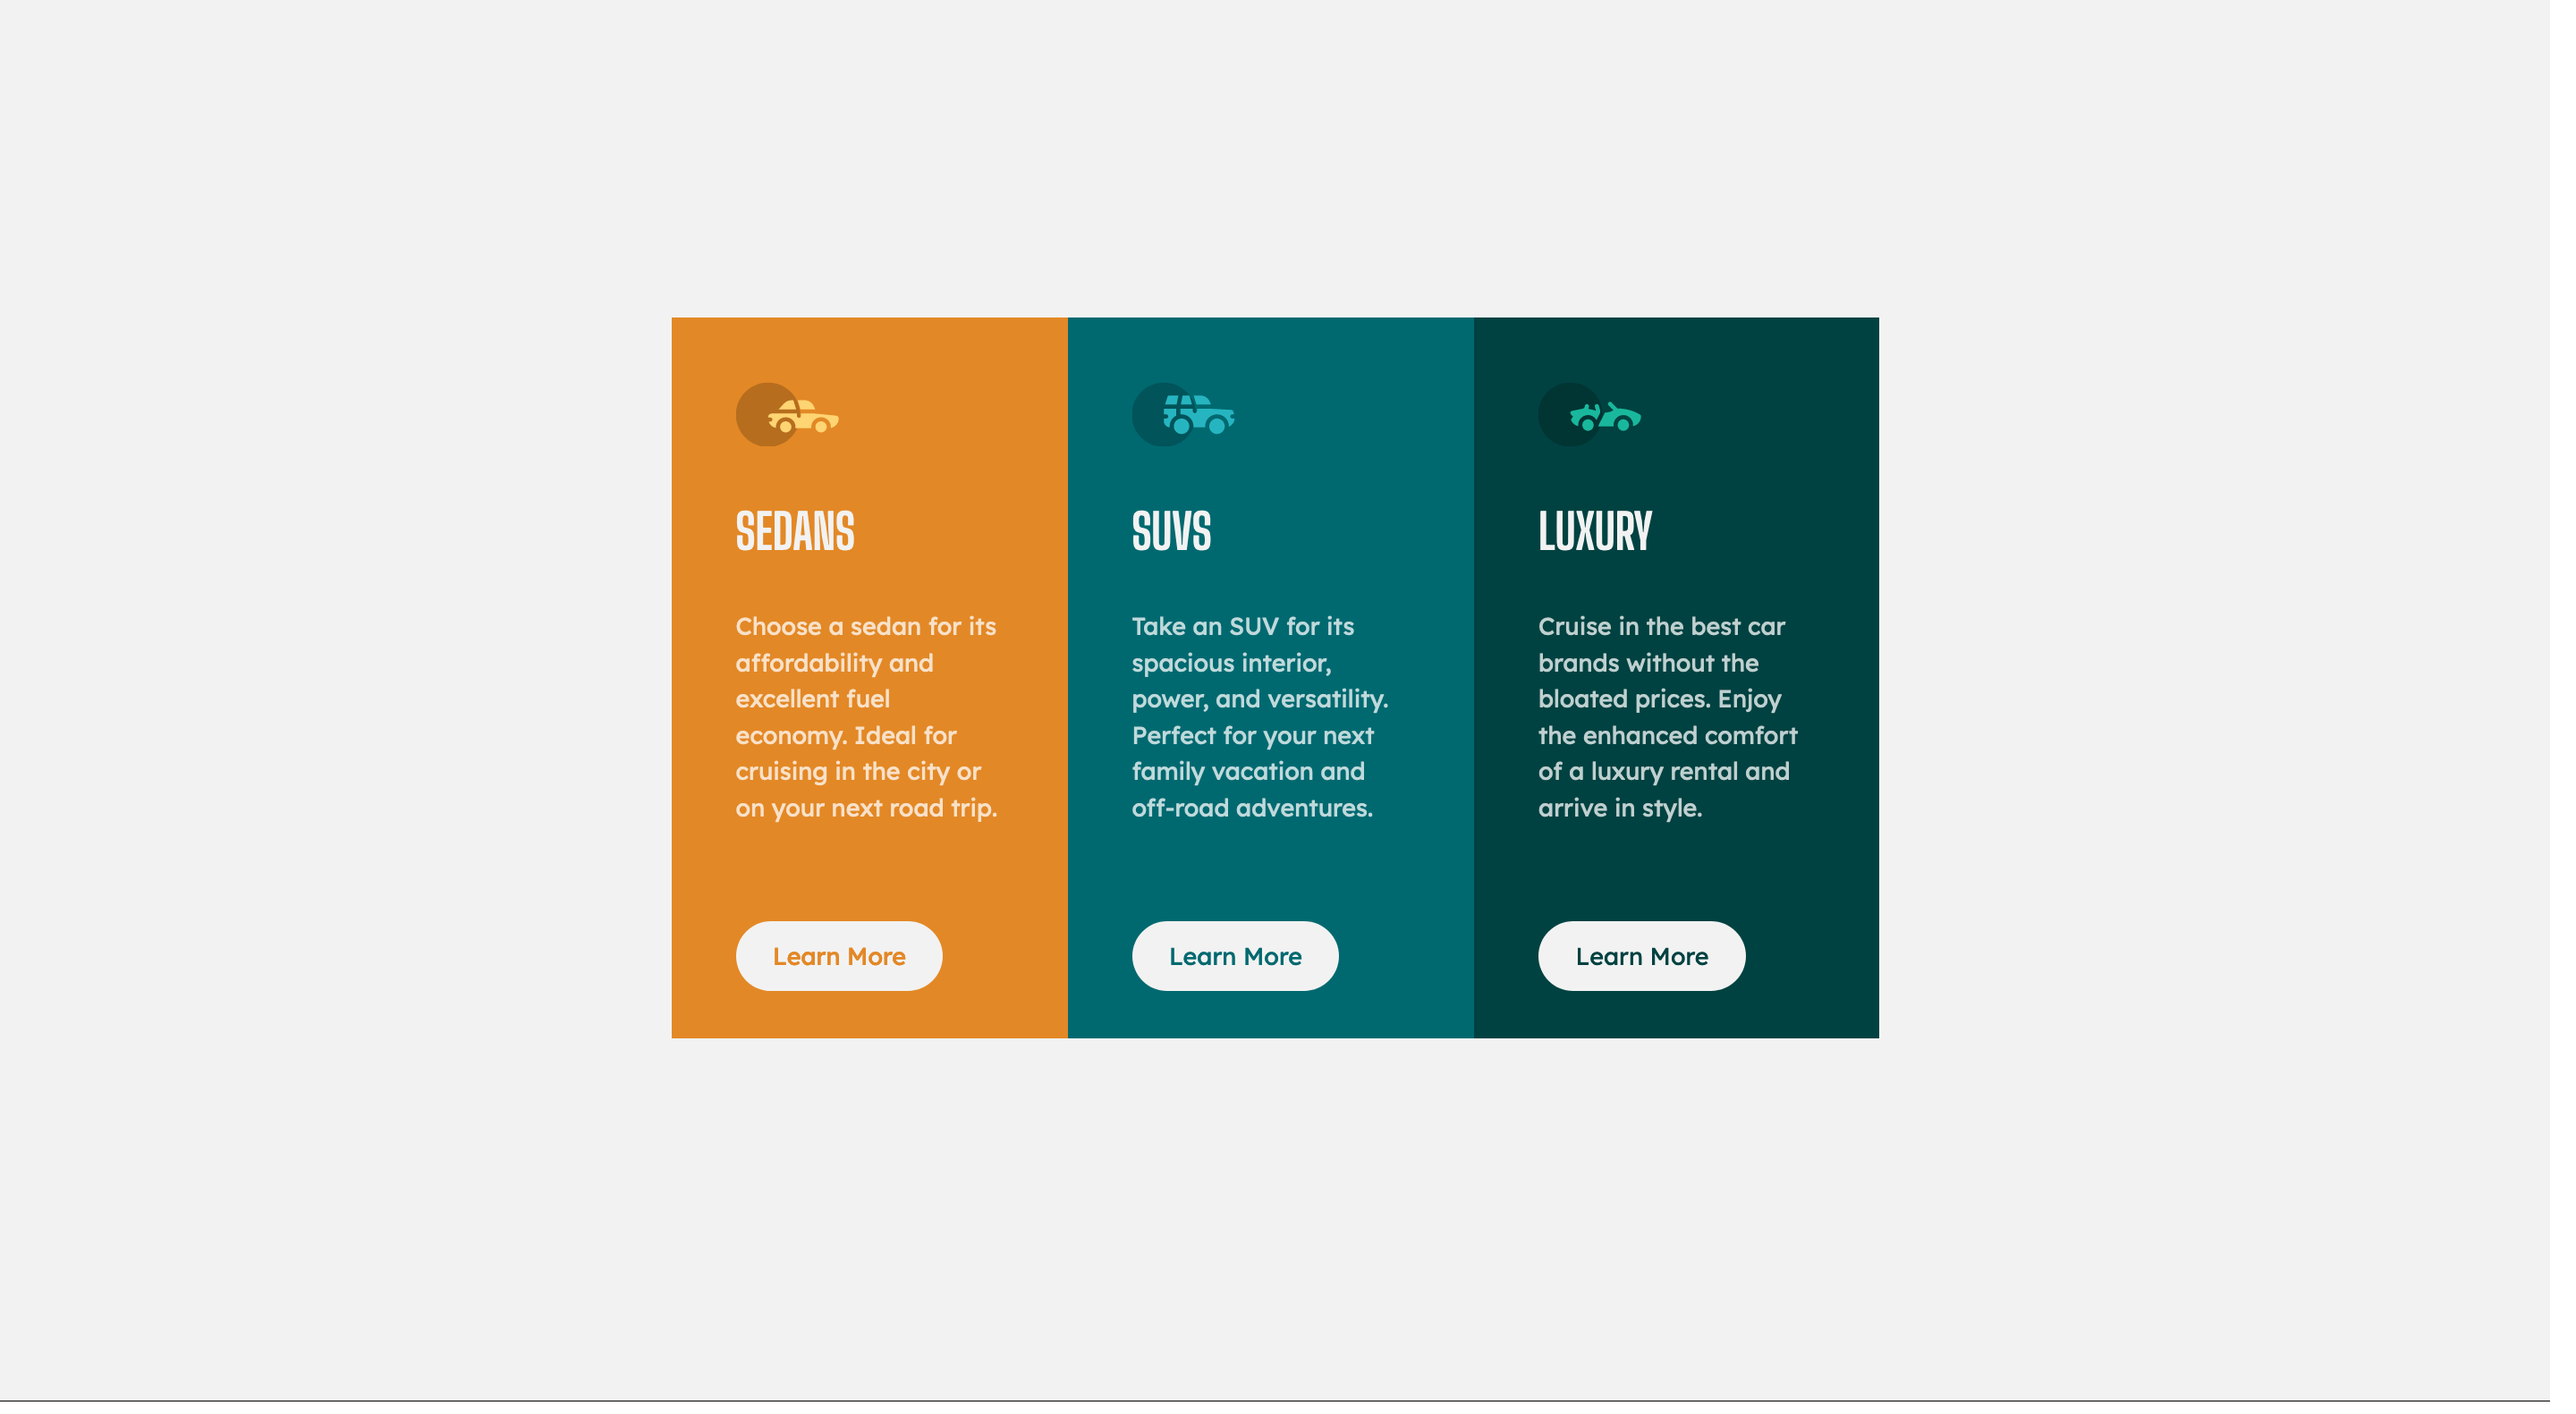
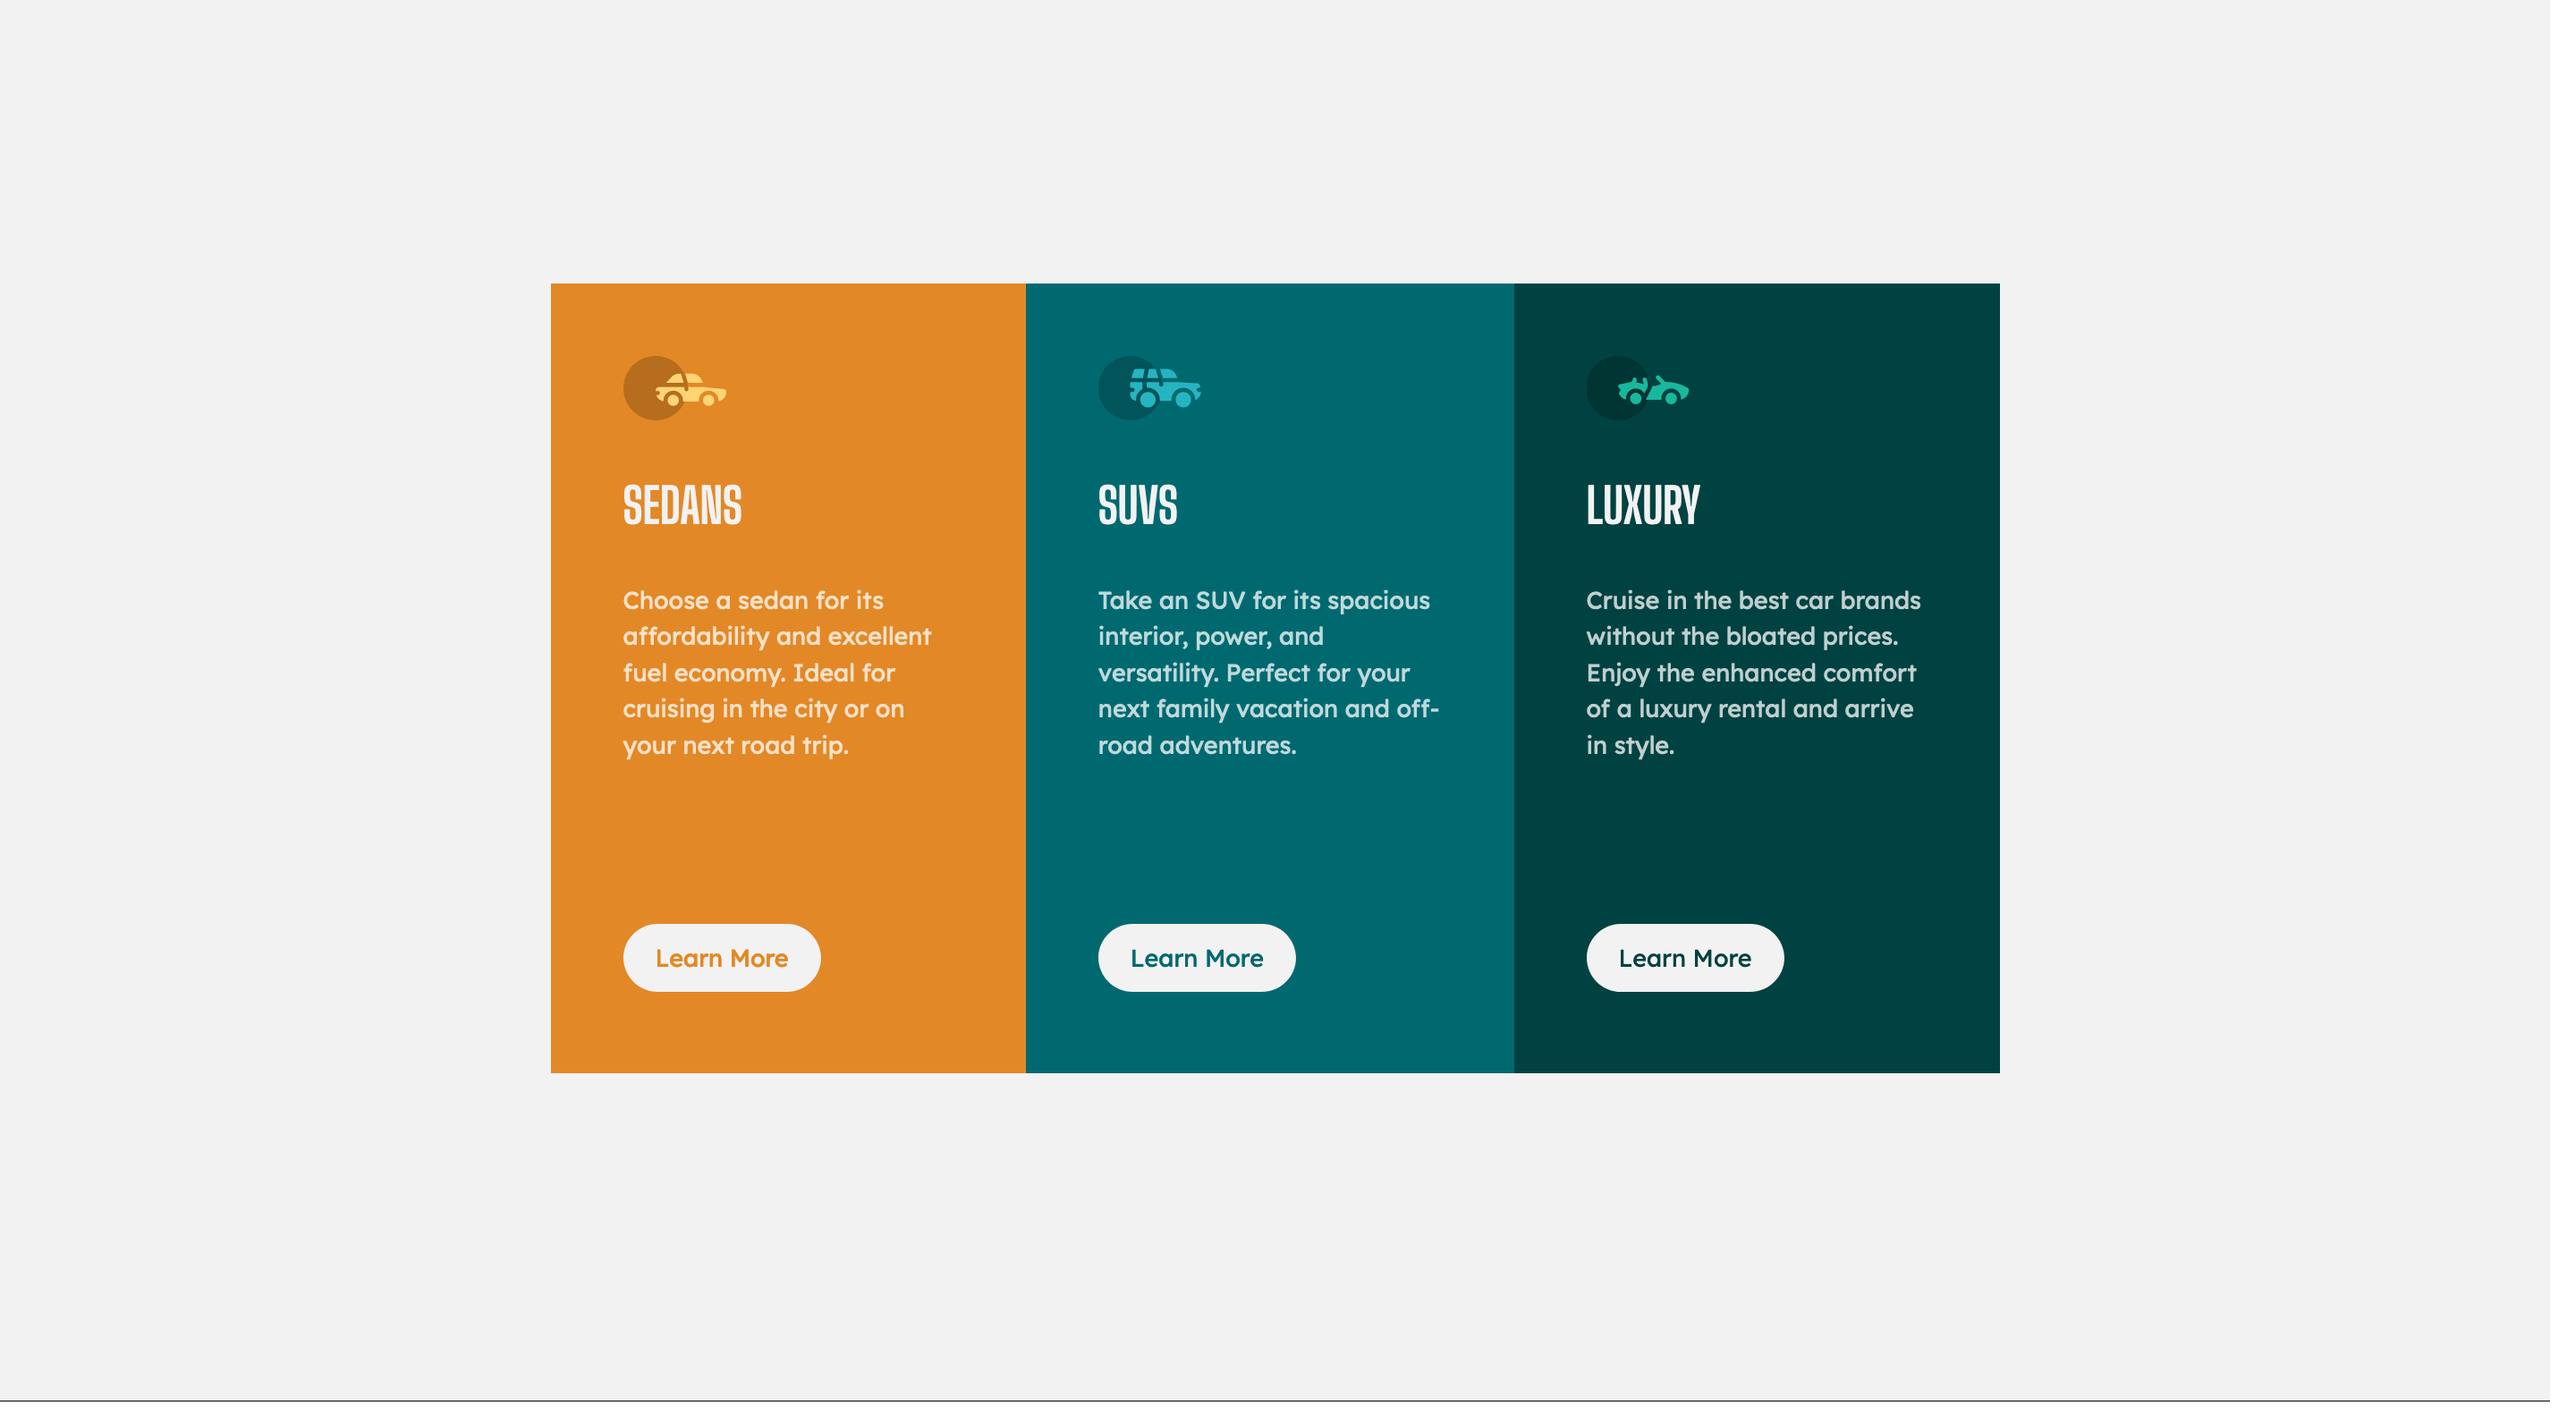
Minor improvements

Changed region(s): [[0.1875, 0.186, 0.7812, 0.7748]]

diff --git a/css/style.css b/css/style.css
@@ -8,6 +8,18 @@
     --FontParagraphs: 'Lexend Deca', sans-serif;
 }
 
+html {
+    font-size: 62.5%;
+    box-sizing: border-box;
+    /* Box Model Hack **/
+}
+
+*,
+*:before,
+*:after {
+    box-sizing: inherit;
+}
+
 body {
     display: flex;
     justify-content: center;
@@ -15,7 +27,7 @@ body {
     min-height: 95vh;
     background-color: var(--VeryLightGray);
     text-align: left;
-    font-size: 15px;
+    font-size: 1.5rem;
     font-family: var(--FontParagraphs);
     color: var(--TransparentWhite);
     line-height: 1.5;
@@ -24,25 +36,25 @@ body {
 h2 {
     font-family: var(--FontTitles);
     text-transform: uppercase;
-    font-size: 30px;
+    font-size: 3rem;
     color: var(--VeryLightGray);
 }
 
-.container {
+main {
     display: flex;
     flex-direction: column;
     justify-content: center;
     align-items: center;
-    border-radius: 10px;
+    border-radius: 1rem;
     margin: 1rem;
 }
 
 .card {
-    padding: 40px;
+    padding: 4.5rem;
 }
 
 .text-padding {
-    padding: 5px;
+    padding: 3rem;
 }
 
 .first-column {
@@ -58,15 +70,20 @@ h2 {
 }
 
 a {
+    display: inline-block;
     text-decoration: none;
-    font-size: 15px;
+    font-size: 1.5rem;
     font-family: var(--FontParagraphs);
     background-color: var(--VeryLightGray);
     text-align: center;
     justify-content: space-evenly;
-    padding: 12px 23px;
-    border-radius: 25px;
+    padding: 1rem 2rem;
+    border-radius: 2.5rem;
     overflow: hidden;
+}
+
+.text-padding {
+    padding: 0;
 }
 
 .first-column a{
@@ -85,19 +102,18 @@ a:hover {
     cursor: pointer;
     background: none;
     color: var(--TransparentWhite);
-    border: 2px solid var(--TransparentWhite);
+    border: .2 solid var(--TransparentWhite);
 }
 
 @media(min-width: 768px) {
 
-    .container {
+    main {
         display: flex;
         flex-direction: row;
-        max-height: 400px;
-        max-width: 750px;
+        width: 90rem;
     }
 
     .text-padding {
-        padding: 20px;
+        padding: 3.5rem;
     }
 }

diff --git a/index.html b/index.html
@@ -18,7 +18,7 @@
 </head>
 
 <body>
-  <main class="container">
+  <main>
 
     <section class="card first-column">
       <svg width="64" height="40" xmlns="http://www.w3.org/2000/svg">
@@ -32,7 +32,7 @@
       <h2>Sedans</h2>
       <p> Choose a sedan for its affordability and excellent fuel economy. Ideal for cruising in the city
         or on your next road trip. </p>
-      <p class="text-padding"></p>
+        <p class="text-padding"></p>
       <a href="#">Learn More</a>
     </section>
 
@@ -48,8 +48,9 @@
       <h2>SUVs</h2>
       <p>Take an SUV for its spacious interior, power, and versatility. Perfect for your next family vacation
         and off-road adventures.</p>
-      <p class="text-padding"> </p>
+      <p class="text-padding"></p>
       <a href="#">Learn More</a>
+
     </section>
 
     <section class="card third-column">
@@ -64,11 +65,11 @@
       <h2>Luxury</h2>
       <p>Cruise in the best car brands without the bloated prices. Enjoy the enhanced comfort of a luxury
         rental and arrive in style.</p>
-      <p class="text-padding"></p>
+        <p class="text-padding"></p>
       <a href="#">Learn More</a>
     </section>
 
-  </main> <!-- End of container-->
+  </main>
 
 </body>
 
